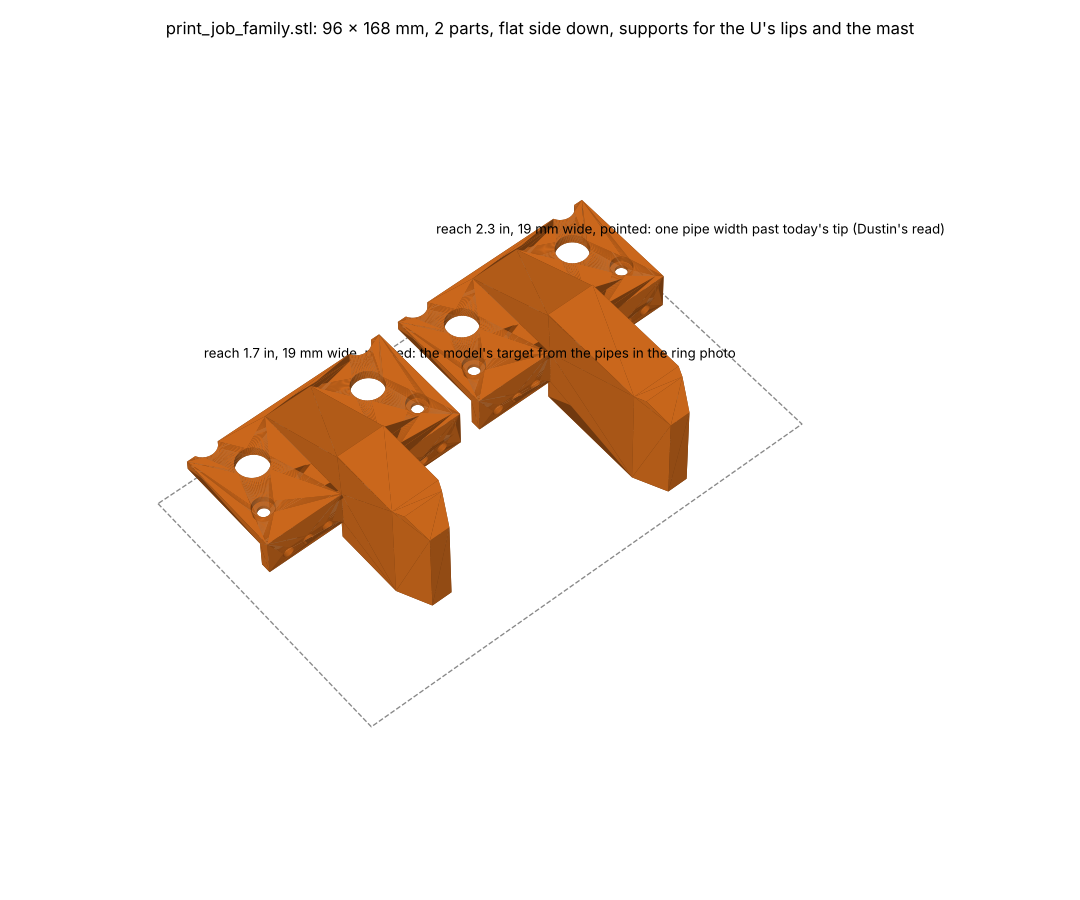
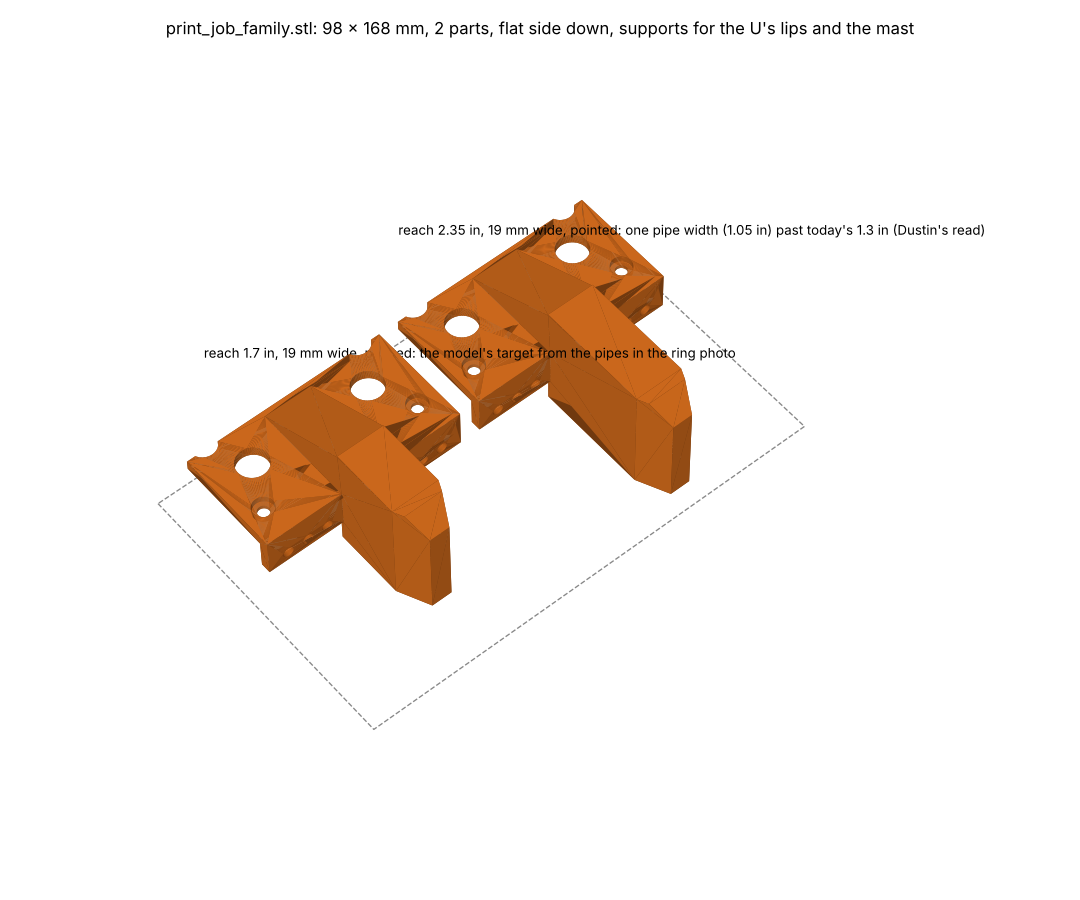
flower-stick: the long poker is 2.35 in, today's 1.3 plus one pipe width
Claude-Session: https://claude.ai/code/session_01FwyCebEKmJFFGeAJNoEXmE

diff --git a/cad/modules/flower-stick-proto/print_job.py b/cad/modules/flower-stick-proto/print_job.py
@@ -24,7 +24,7 @@ PARTS = {"three": [("v7_lane", "v7: the shape that works, snug hole"), ("v8_lane
 COLS = {"variants": [[("poker_u_lite", "lite"), ("poker_u_clip", "clip")], [("poker_u_adj", "adj: the U with the mast"), ("poker_u_adj_poke", "adj: the poke block, on its side")], [("poker_u_adj_shim2", "2 mm shim"), ("poker_u_adj_shim2", "2 mm shim"), ("poker_u_adj_shim4", "4 mm shim"), ("poker_u_adj_shim4", "4 mm shim")]],
         "all": [[("mountain_wide", "the wide mountain blade")], [("poker_u_classic", "classic"), ("poker_u_lite", "lite")], [("poker_u_clip", "clip"), ("poker_u_adj", "adj: the U with the mast")], [("poker_u_adj_poke", "adj: the poke block")]],
         "shims": [[("poker_u_adj_shim2", "2 mm shim"), ("poker_u_adj_shim2", "2 mm shim")], [("poker_u_adj_shim4", "4 mm shim"), ("poker_u_adj_shim4", "4 mm shim")]],
-        "family": [[("poker_f17", "reach 1.7 in, 19 mm wide, pointed: the model's target from the pipes in the ring photo"), ("poker_f23", "reach 2.3 in, 19 mm wide, pointed: one pipe width past today's tip (Dustin's read)")]],
+        "family": [[("poker_f17", "reach 1.7 in, 19 mm wide, pointed: the model's target from the pipes in the ring photo"), ("poker_f23", "reach 2.35 in, 19 mm wide, pointed: one pipe width (1.05 in) past today's 1.3 in (Dustin's read)")]],
         "u_only": [[("poker_u_hi", "the poker L with the lower nose: the one that worked on 26 Oct")]],
         "next2": [[("mountain_wide_2in", "the wide mountain blade with its tail cut to 2.0 in")], [("poker_u", "poker_u: for the channel top 5.6 in up")], [("poker_u_hi", "poker_u_hi: for the channel top 6.55 in up; the poke hangs")]],
         "both": [[("mountain_wide", "design 9: the full 3.0 in blade, the sled-tested one")], [("mountain_wide_2in", "design 10: the same blade, tail cut to 2.0 in")], [("poker_u", "poker_u: for the channel top 5.6 in up"), ("poker_u_hi", "poker_u_hi: for the channel top 6.55 in up; the poke hangs")]]}

diff --git a/cad/modules/flower-stick-proto/PRINT_ME.md b/cad/modules/flower-stick-proto/PRINT_ME.md
@@ -233,7 +233,7 @@ hole over the front screw and the roof cut short:
 - **Reach 1.7 in.** In the ring photo, with the camera solved from the poker and checked on the four green pipes (their spacing comes
   out 87 to 89 mm against the CAD's 87), today's 1.3 in tip sits on the near pipes' centre line, about 0.3 in short of the bottom
   ball's near side. The model's best tip position is about 0.4 in further in: 1.7 in.
-- **Reach 2.3 in.** About one pipe width (1.05 in) past today's tip: Dustin's read of the same photo.
+- **Reach 2.35 in.** Today's 1.3 in plus one pipe width (1.05 in) extra: Dustin's read of the same photo.
 
 **Why narrow, not 38 mm.** The near pipes stand at the poke's height (from 4.25 in up) and the poke has to pass between them: their
 inner edges are 2.39 in apart. A 19 mm poke can be up to about 0.8 in off centre before it hits a pipe; a 38 mm one only 0.45 in. The
